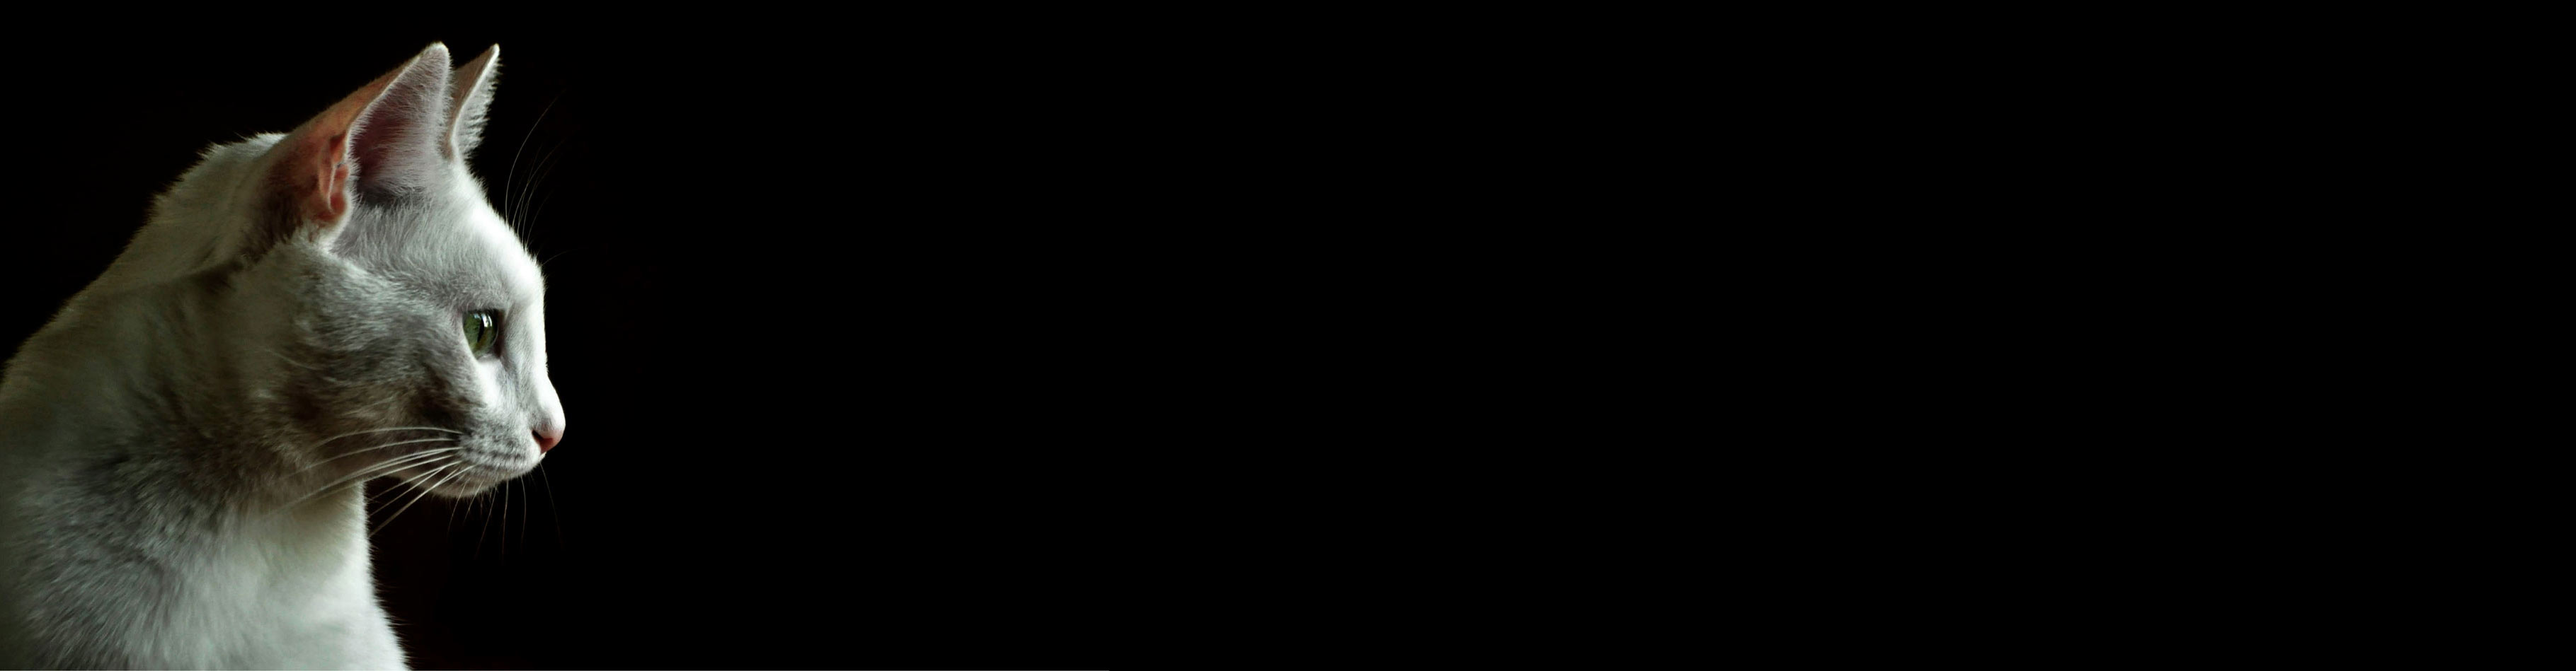
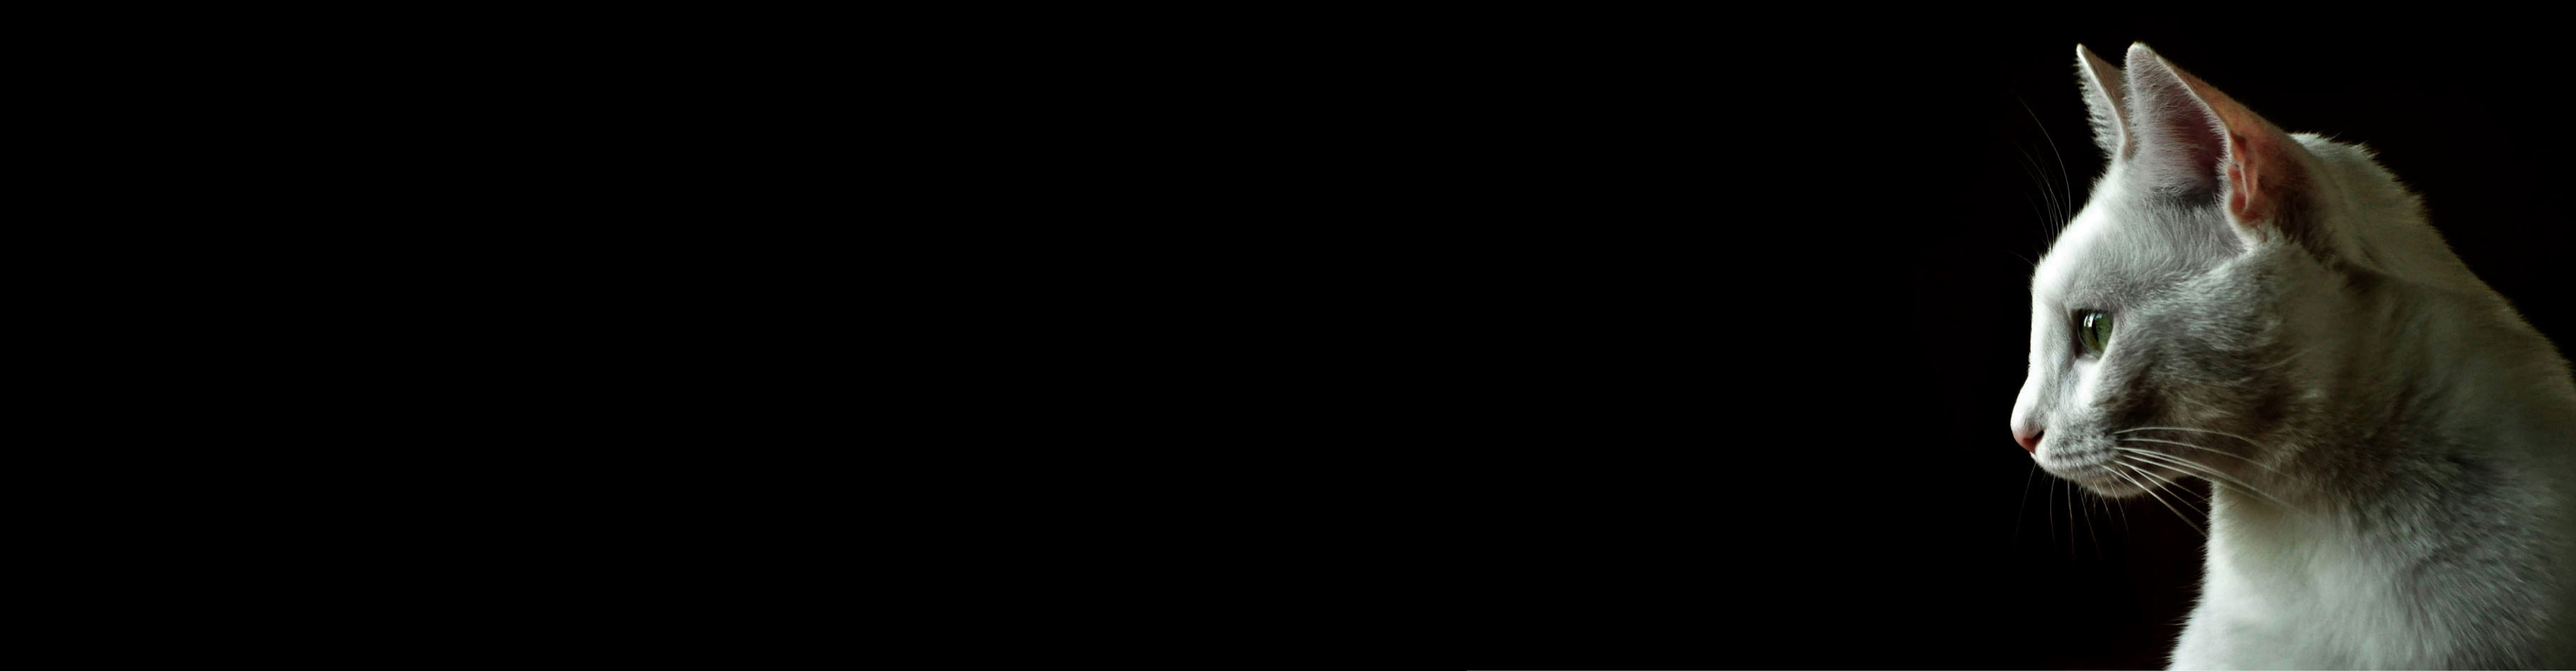
Fix: Fixed styles nad change background featured cats

Changed region(s): [[0.7763, 0.0611, 1.0, 1.0], [0.0, 0.0611, 0.2174, 1.0]]

diff --git a/src/pages/Landing/sections/FeaturedCats.jsx b/src/pages/Landing/sections/FeaturedCats.jsx
@@ -1,4 +1,3 @@
-
 import { Panel } from '../../shared';
 import FeaturedPets from '../components/FeaturedPets';
 const pets = [
@@ -32,12 +31,11 @@ const FeaturedCats = () => {
   return (
     <section
       id='featured-cats'
-      className="w-full  max-h-screen  bg-left-bottom bg-auto bg-no-repeat h-screen bg-black bg-[url('/backgrounds/featured-cats.jpg')] relative"
+      className='w-full     bg-black  relative flex justify-center'
     >
       <main
         id='featured-cats-content'
-
-        className='max-w-screen-xl w-full flex gap-3 justify-end max-sm:justify-center  px-5  h-max '
+        className="max-w-screen-xl w-full flex gap-3 justify-end max-sm:justify-center  px-5  h-max  bg-left-bottom bg-auto bg-no-repeat bg-[url('/backgrounds/featured-cats-2.jpg')]"
       >
         <Panel className='max-w-2xl px-4 py-4 mb-80 background-panel-cats'>
           <FeaturedPets title={'Gatetes'} pets={pets}></FeaturedPets>

diff --git a/src/pages/Landing/sections/FeaturedDogs.jsx b/src/pages/Landing/sections/FeaturedDogs.jsx
@@ -1,4 +1,3 @@
-
 import { Panel } from '../../shared';
 import FeaturedPets from '../components/FeaturedPets';
 const pets = [
@@ -12,12 +11,11 @@ const FeaturedDogs = () => {
   return (
     <section
       id='featured-dogs'
-      className="w-full  max-h-screen  bg-right-bottom bg-auto bg-no-repeat h-screen bg-white bg-[url('/backgrounds/featured-dogs.jpg')] relative"
+      className='w-full bg-white  relative flex justify-center'
     >
       <main
         id='featured-dogs-content'
-
-        className='max-w-screen-xl w-full flex gap-3 justify-start max-sm:justify-center  px-5  h-max '
+        className="max-w-screen-xl w-full flex gap-3 justify-start bg-[url('/backgrounds/featured-dogs.jpg')] bg-no-repeat bg-right-bottom max-sm:justify-center  px-5  h-max "
       >
         <Panel className='max-w-2xl px-4 py-4 mb-72 '>
           <FeaturedPets title={'Perretes'} pets={pets}></FeaturedPets>

diff --git a/src/index.css b/src/index.css
@@ -12,6 +12,9 @@
 .background-panel-newsletter {
   background-color: rgba(0, 0, 0, 0.5);
 }
+.background-panel-cats {
+  background-color: rgba(212, 212, 216, 0.8);
+}
 
 /* ============= GLOBAL CSS =============== */
 
